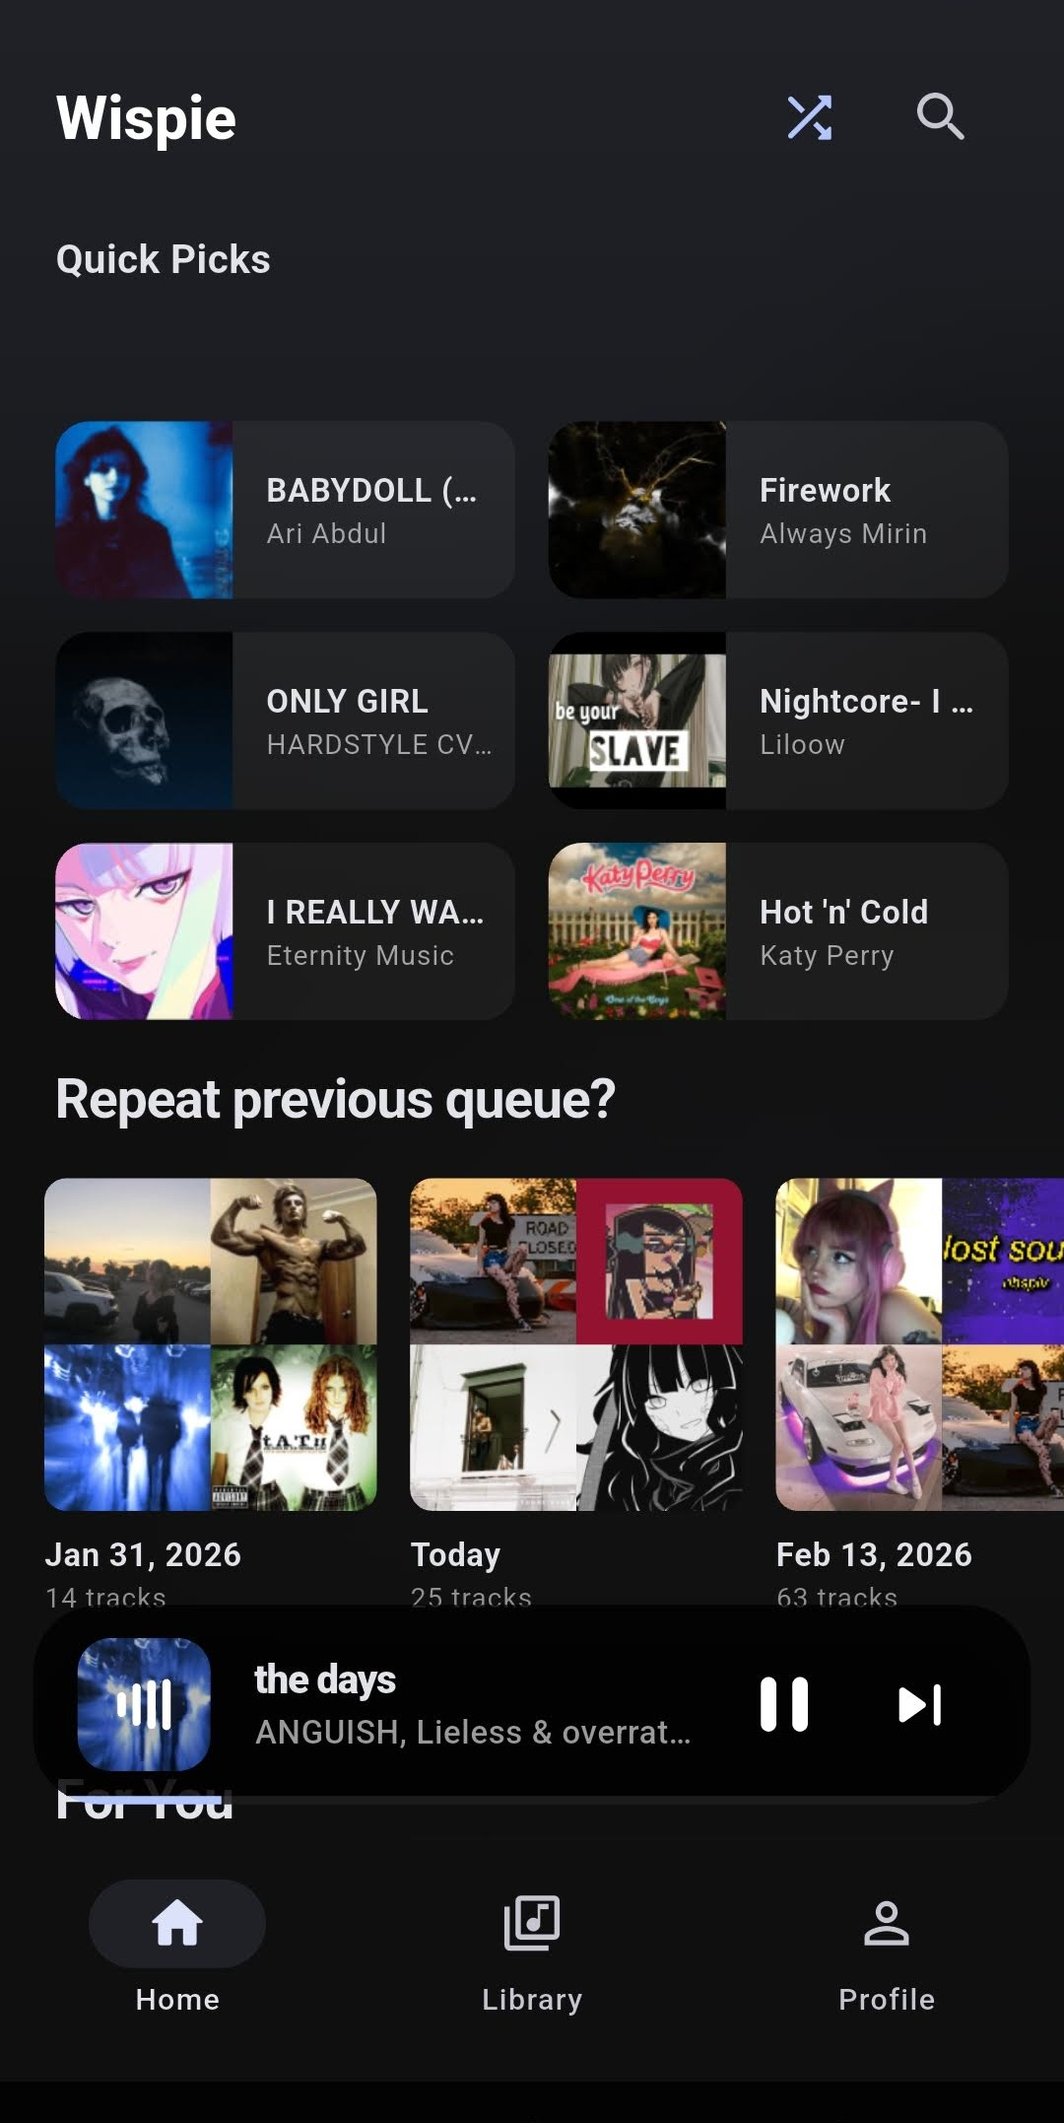
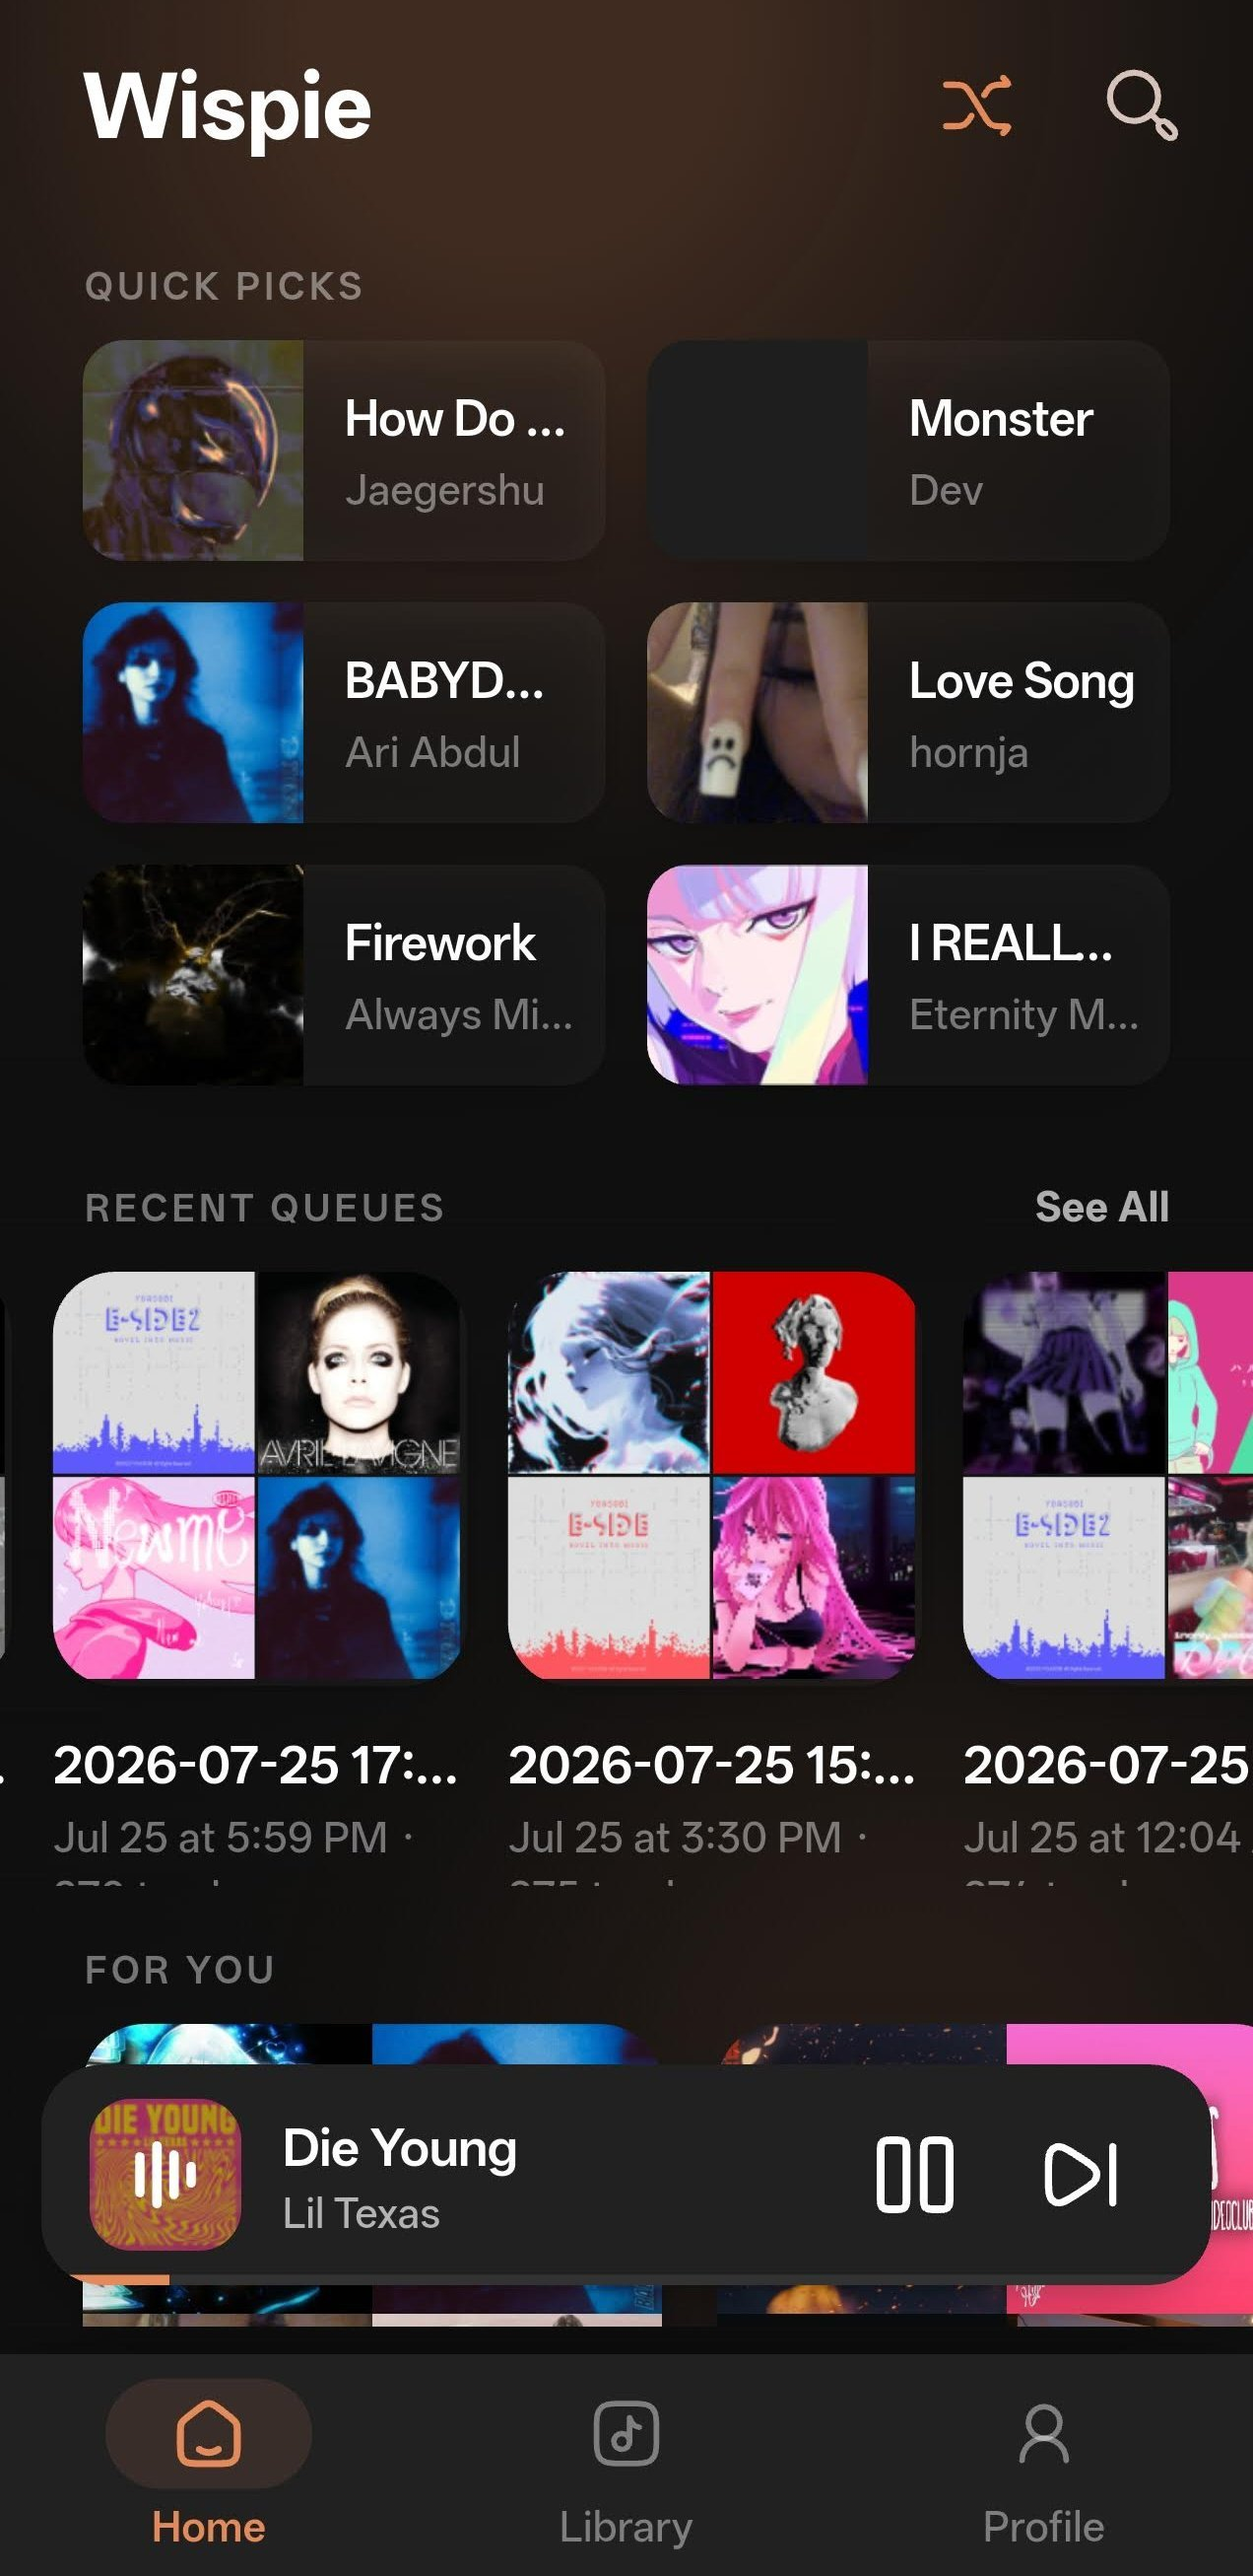
Refine feat extraction, queue rebuild on metadata edits & harden test isolation
Made _extractFeatFromSong a public @visibleForTesting function
extractFeatFromSong in lib/providers/providers.dart and tightened the
regex to reject matches when extra content follows the closing bracket
(e.g. "(feat. Artist) (Remix)"), matching only the end-of-string feat
marker. Added comprehensive test suite in test/extract_feat_test.dart
covering standard patterns, multi-artist handling, edge cases, and
non-match scenarios.

Changed the equality check in AudioPlayerManager._queueMutationChain from
comparing url/filename to full Song equality (Equatable), so edits to
title, artist, album, or coverUrl also trigger a queue rebuild instead of
leaving stale MediaItem data in the notification and now-playing bar.

Saved and restored the original PathProviderPlatform.instance in
TestEnvironment.tearDown to prevent leaking the mock into subsequent test
files in the same session. Added TestEnvironment setup/teardown to
test/widget_test.dart so it does not crash on missing platform
implementations. Updated screenshots for the current UI state.

Version bump 3.29.10-beta+337 -> 3.29.10-beta+338.

diff --git a/test/extract_feat_test.dart b/test/extract_feat_test.dart
@@ -1,0 +1,187 @@
+import 'package:flutter_test/flutter_test.dart';
+import 'package:wispie/models/song.dart';
+import 'package:wispie/providers/providers.dart';
+
+void main() {
+  group('extractFeatFromSong', () {
+    Song song({
+      required String title,
+      String artist = 'Test Artist',
+      String album = 'Test Album',
+      String filename = 'test.mp3',
+      String url = '/music/test.mp3',
+    }) {
+      return Song(
+        title: title,
+        artist: artist,
+        album: album,
+        filename: filename,
+        url: url,
+      );
+    }
+
+    group('standard feat patterns', () {
+      test('extracts feat artist from parenthesised title', () {
+        final result = extractFeatFromSong(
+          song(title: 'Song Title (feat. John Doe)'),
+        );
+        expect(result.title, 'Song Title');
+        expect(result.artist, 'Test Artist, John Doe');
+      });
+
+      test('extracts feat artist from bracketed title', () {
+        final result = extractFeatFromSong(
+          song(title: 'Song Title [feat. John Doe]'),
+        );
+        expect(result.title, 'Song Title');
+        expect(result.artist, 'Test Artist, John Doe');
+      });
+
+      test('extracts ft. (abbreviated) artist', () {
+        final result = extractFeatFromSong(
+          song(title: 'Song Title (ft. Jane Smith)'),
+        );
+        expect(result.title, 'Song Title');
+        expect(result.artist, 'Test Artist, Jane Smith');
+      });
+
+      test('extracts featuring artist', () {
+        final result = extractFeatFromSong(
+          song(title: 'Song Title (featuring Bob Jones)'),
+        );
+        expect(result.title, 'Song Title');
+        expect(result.artist, 'Test Artist, Bob Jones');
+      });
+
+      test('extracts feat artist without brackets', () {
+        final result = extractFeatFromSong(
+          song(title: 'Song Title feat. John Doe'),
+        );
+        expect(result.title, 'Song Title');
+        expect(result.artist, 'Test Artist, John Doe');
+      });
+
+      test('extracts ft. without brackets nor dot', () {
+        final result = extractFeatFromSong(
+          song(title: 'Song Title ft John Doe'),
+        );
+        expect(result.title, 'Song Title');
+        expect(result.artist, 'Test Artist, John Doe');
+      });
+
+      test('extracts with case insensitive matching', () {
+        final result = extractFeatFromSong(
+          song(title: 'Song Title (FEAT. JOHN DOE)'),
+        );
+        expect(result.title, 'Song Title');
+        expect(result.artist, 'Test Artist, JOHN DOE');
+      });
+    });
+
+    group('artist field handling', () {
+      test('sets feat artist as sole artist when original is Unknown Artist',
+          () {
+        final result = extractFeatFromSong(
+          song(
+            title: 'Song Title (feat. John Doe)',
+            artist: 'Unknown Artist',
+          ),
+        );
+        expect(result.title, 'Song Title');
+        expect(result.artist, 'John Doe');
+      });
+
+      test('appends feat artist to existing multi-artist field', () {
+        final result = extractFeatFromSong(
+          song(
+            title: 'Song Title (feat. John Doe)',
+            artist: 'Main Artist',
+          ),
+        );
+        expect(result.title, 'Song Title');
+        expect(result.artist, 'Main Artist, John Doe');
+      });
+    });
+
+    group('edge cases - should extract correctly', () {
+      test('handles ampersand in feat artist name', () {
+        final result = extractFeatFromSong(
+          song(title: 'Song Title (feat. Artist 1 & Artist 2)'),
+        );
+        expect(result.title, 'Song Title');
+        expect(result.artist, 'Test Artist, Artist 1 & Artist 2');
+      });
+
+      test('handles comma in feat artist name', () {
+        final result = extractFeatFromSong(
+          song(title: 'Song Title (feat. Artist 1, Artist 2, and Artist 3)'),
+        );
+        expect(result.title, 'Song Title');
+        expect(result.artist, 'Test Artist, Artist 1, Artist 2, and Artist 3');
+      });
+
+      test('handles single-letter feat artist name', () {
+        final result = extractFeatFromSong(
+          song(title: 'Song Title (feat. X)'),
+        );
+        expect(result.title, 'Song Title');
+        expect(result.artist, 'Test Artist, X');
+      });
+    });
+
+    group('edge cases - should NOT extract (return song unchanged)', () {
+      test('does not extract when extra content follows closing bracket', () {
+        final input = song(title: 'Song Title (feat. Artist) (Remix)');
+        final result = extractFeatFromSong(input);
+        expect(result, same(input));
+      });
+
+      test('does not extract when extra content in brackets follows', () {
+        final input = song(title: 'Song Title (feat. Artist) [Official]');
+        final result = extractFeatFromSong(input);
+        expect(result, same(input));
+      });
+
+      test('extracts the last feat marker when multiple present', () {
+        // The $ anchor ensures only the end-of-string feat marker matches,
+        // leaving earlier feat content in the title.
+        final result = extractFeatFromSong(
+          song(title: 'Song Title (feat. Artist 1) (feat. Artist 2)'),
+        );
+        expect(result.title, 'Song Title (feat. Artist 1)');
+        expect(result.artist, 'Test Artist, Artist 2');
+      });
+
+      test('does not extract when title has no feat marker', () {
+        final input = song(title: 'Song Title');
+        final result = extractFeatFromSong(input);
+        expect(result, same(input));
+      });
+
+      test('does not extract empty feat artist', () {
+        final input = song(title: 'Song Title (feat. )');
+        final result = extractFeatFromSong(input);
+        expect(result, same(input));
+      });
+
+      test('preserves other song fields unchanged on match', () {
+        final input = song(
+          title: 'Song Title (feat. John Doe)',
+          artist: 'Test Artist',
+          album: 'Test Album',
+          filename: 'test.mp3',
+          url: '/music/test.mp3',
+        );
+        final result = extractFeatFromSong(input);
+        expect(result.title, 'Song Title');
+        expect(result.artist, 'Test Artist, John Doe');
+        expect(result.album, input.album);
+        expect(result.filename, input.filename);
+        expect(result.url, input.url);
+        expect(result.coverUrl, input.coverUrl);
+        expect(result.hasLyrics, input.hasLyrics);
+        expect(result.duration, input.duration);
+      });
+    });
+  });
+}

diff --git a/test/test_helpers.dart b/test/test_helpers.dart
@@ -73,7 +73,9 @@ class TestEnvironment {
       return null;
     });
 
-    // Also mock the platform interface as a backup
+    // Also mock the platform interface as a backup. Save original so
+    // tearDown can restore it.
+    _originalPathProvider = PathProviderPlatform.instance;
     PathProviderPlatform.instance = _MockPathProviderPlatform(_tempDir!.path);
 
     // Mock the volume monitoring channel to prevent MissingPluginException
@@ -97,6 +99,8 @@ class TestEnvironment {
     SharedPreferencesStorePlatform.instance = MockSharedPreferencesStore();
   }
 
+  PathProviderPlatform? _originalPathProvider;
+
   /// Cleans up the temporary directory.
   void tearDown() {
     // Clear method channel handlers
@@ -110,6 +114,14 @@ class TestEnvironment {
       'gru_songs/volume_events',
       null,
     );
+
+    // Restore original path provider platform instance to avoid leaking
+    // the mock into subsequent test files in the same session.
+    final original = _originalPathProvider;
+    if (original != null) {
+      PathProviderPlatform.instance = original;
+      _originalPathProvider = null;
+    }
 
     // Clean up temp directory
     if (_tempDir != null && _tempDir!.existsSync()) {

diff --git a/lib/providers/providers.dart b/lib/providers/providers.dart
@@ -561,7 +561,7 @@ class SongsNotifier extends AsyncNotifier<List<Song>> {
       }
 
       if (settings.extractFeatArtists) {
-        uniqueSongs = uniqueSongs.map(_extractFeatFromSong).toList();
+        uniqueSongs = uniqueSongs.map(extractFeatFromSong).toList();
       }
 
       // Carry forward what a scan can't re-derive: when a song was added, and
@@ -1356,9 +1356,10 @@ class SongsNotifier extends AsyncNotifier<List<Song>> {
   }
 }
 
-Song _extractFeatFromSong(Song song) {
+@visibleForTesting
+Song extractFeatFromSong(Song song) {
   final regex = RegExp(
-    r'\s*[\(\[]?\s*(?:feat\.?|ft\.?|featuring)\s+(.+?)[\)\]]?\s*$',
+    r'\s*[\(\[]?\s*(?:feat\.?|ft\.?|featuring)\s+([^\)\]\(\[\n]+?)\s*[\)\]]?\s*$',
     caseSensitive: false,
   );
   final match = regex.firstMatch(song.title);

diff --git a/lib/services/audio_player_manager.dart b/lib/services/audio_player_manager.dart
@@ -1580,8 +1580,11 @@ class AudioPlayerManager extends WidgetsBindingObserver {
 
     if (currentIdx != null && currentItemBefore != null) {
       final currentItemAfter = _effectiveQueue[currentIdx];
-      if (currentItemBefore.song.url != currentItemAfter.song.url ||
-          currentItemBefore.song.filename != currentItemAfter.song.filename) {
+      // Full Song equality (Equatable) so metadata edits (title, artist,
+      // album, coverUrl) also trigger a rebuild — the MediaItem baked into
+      // the AudioSource would otherwise stay stale for the now-playing bar
+      // and the notification.
+      if (currentItemBefore.song != currentItemAfter.song) {
         _rebuildQueue(initialIndex: currentIdx, startPlaying: _player.playing);
       }
     }

diff --git a/test/widget_test.dart b/test/widget_test.dart
@@ -1,8 +1,22 @@
 import 'package:flutter_riverpod/flutter_riverpod.dart';
 import 'package:flutter_test/flutter_test.dart';
+import 'package:shared_preferences/shared_preferences.dart';
 import 'package:wispie/main.dart';
+import 'test_helpers.dart';
 
 void main() {
+  late TestEnvironment testEnv;
+
+  setUpAll(() {
+    testEnv = TestEnvironment();
+    testEnv.setUp();
+    SharedPreferences.setMockInitialValues({});
+  });
+
+  tearDownAll(() {
+    testEnv.tearDown();
+  });
+
   testWidgets('App renders and shows SetupScreen by default',
       (WidgetTester tester) async {
     // Build our app and trigger a frame.
